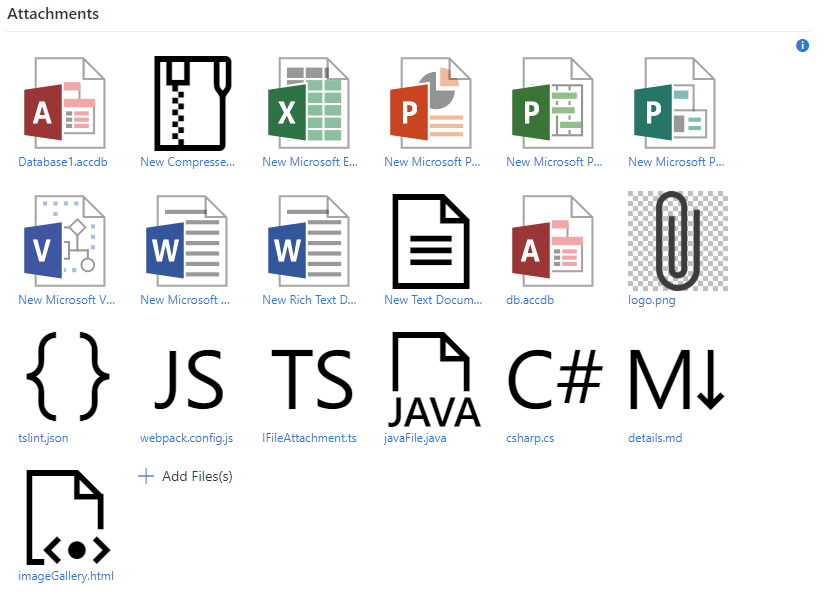
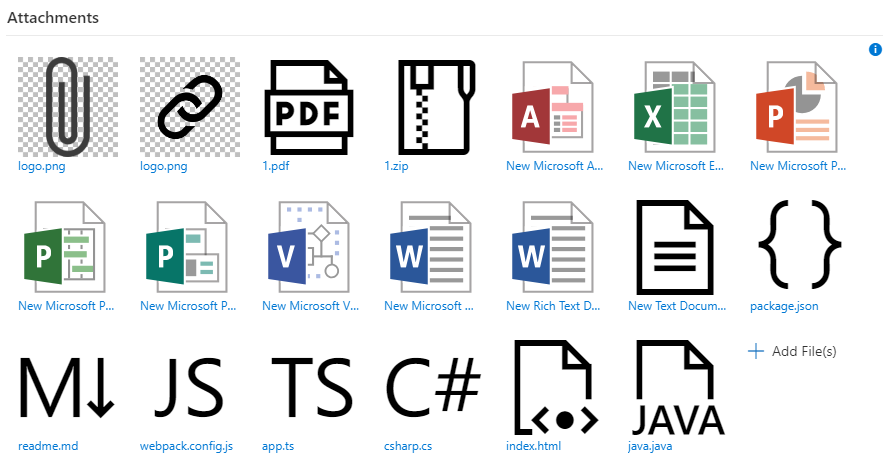
update screenshots

diff --git a/details.md b/details.md
@@ -49,6 +49,7 @@ Within the same Weblayout choose a Section element and add
 ```
 
 # Change Log
+(07/05/18) 1.2.37 Fix typo and update screenshots
 (04/08/18) 1.2.1 bulk delete, bulk download, ctr + a select all
 (04/07/18) 1.1.14 text preview, auxilary download button for files that would otherwise preview on click  
 (04/07/18) 1.1.1 mp4 previews, change comments, rename files  
